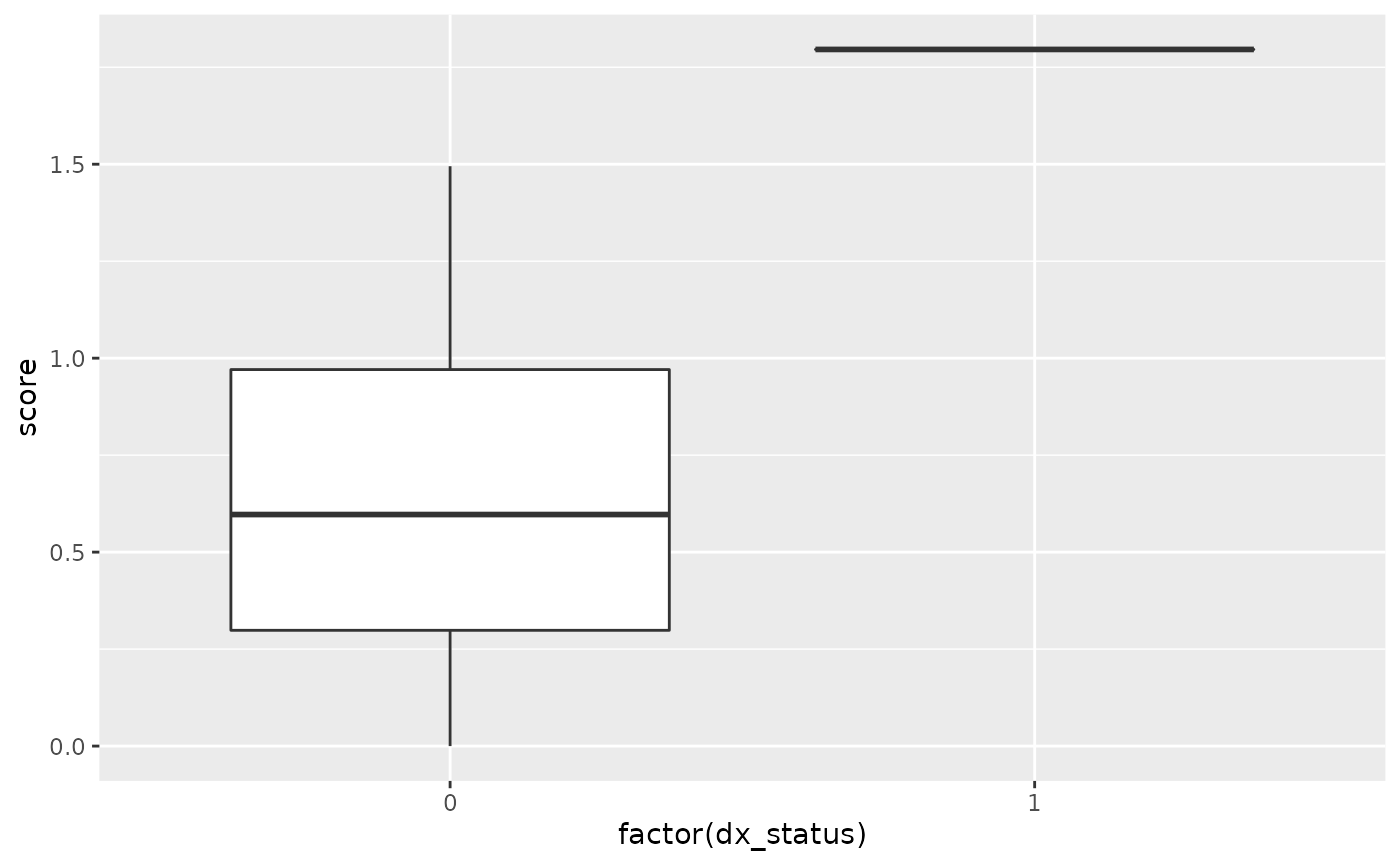
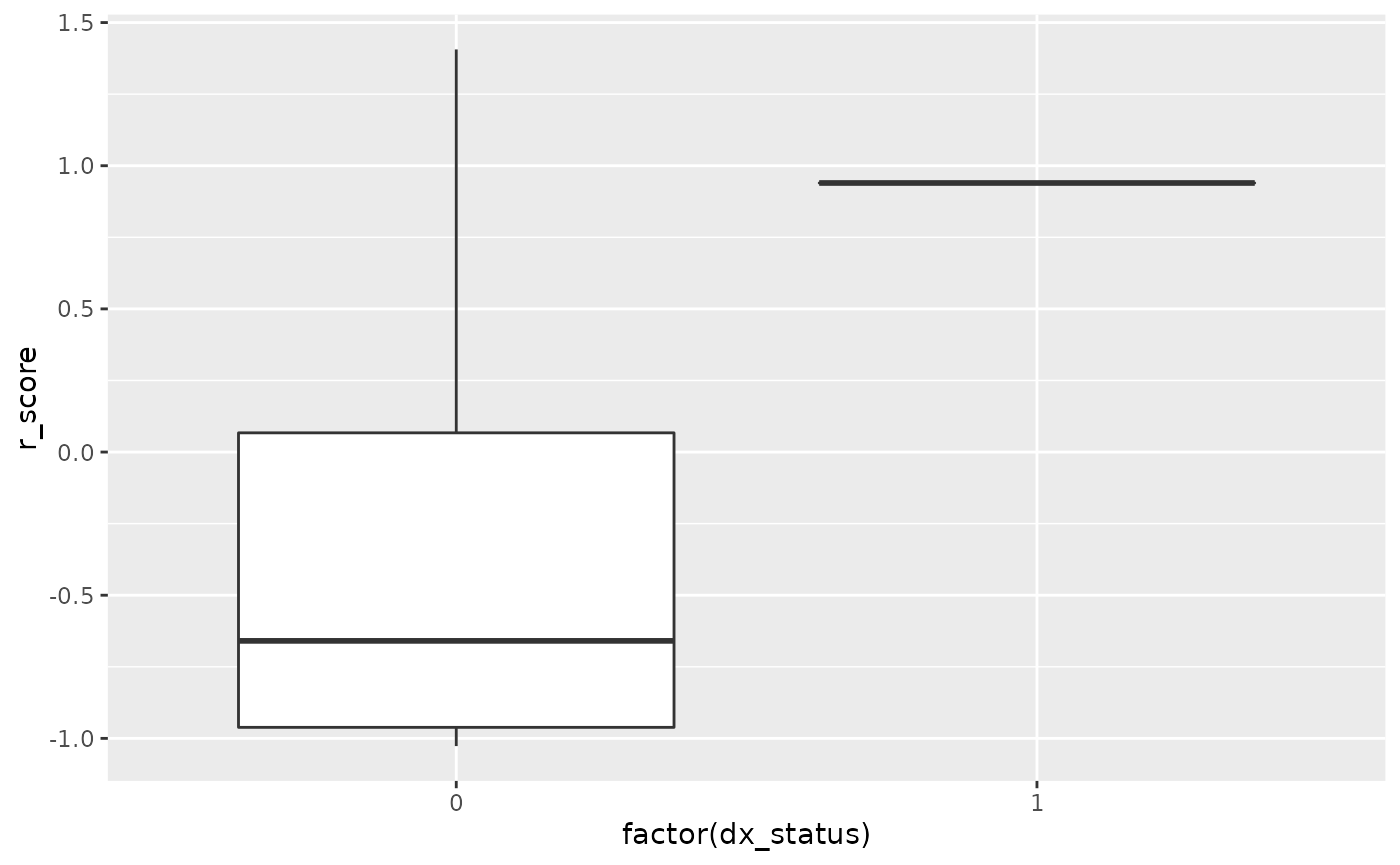
Built site for phers: 0.0.0.9000@26683aa

diff --git a/articles/generate_phers.html b/articles/generate_phers.html
@@ -126,9 +126,16 @@
 <span class="va">diseasePhecodeMap</span> <span class="op">=</span> <span class="fu"><a href="../reference/mapDiseaseToPhecode.html">mapDiseaseToPhecode</a></span><span class="op">(</span><span class="op">)</span>
 
 <span class="co"># calculate PheRS</span>
-<span class="va">scores</span> <span class="op">=</span> <span class="fu"><a href="../reference/getScores.html">getScores</a></span><span class="op">(</span><span class="va">demoSample</span>, <span class="va">phecodeOccurrences</span>, <span class="va">weights</span>, <span class="va">diseasePhecodeMap</span><span class="op">[</span><span class="va">disease_id</span> <span class="op">==</span> <span class="va">diseaseIds</span><span class="op">]</span><span class="op">)</span>
+<span class="va">scores</span> <span class="op">=</span> <span class="fu"><a href="../reference/getScores.html">getScores</a></span><span class="op">(</span>
+  <span class="va">demoSample</span>, <span class="va">phecodeOccurrences</span>, <span class="va">weights</span>, <span class="va">diseasePhecodeMap</span><span class="op">[</span><span class="va">disease_id</span> <span class="op">==</span> <span class="va">diseaseIds</span><span class="op">]</span><span class="op">)</span>
  
-<span class="va">rscores</span> <span class="op">=</span> <span class="fu"><a href="../reference/getResidualScores.html">getResidualScores</a></span><span class="op">(</span><span class="va">demoSample</span>, <span class="va">scores</span>, glmFormula <span class="op">=</span> <span class="fu"><a href="https://rdrr.io/r/stats/formula.html" class="external-link">as.formula</a></span><span class="op">(</span><span class="op">~</span> <span class="va">sex</span><span class="op">)</span><span class="op">)</span></code></pre></div>
+<span class="co"># calculate residual PheRS</span>
+<span class="va">rscores</span> <span class="op">=</span> <span class="fu"><a href="../reference/getResidualScores.html">getResidualScores</a></span><span class="op">(</span><span class="va">demoSample</span>, <span class="va">scores</span>, glmFormula <span class="op">=</span> <span class="fu"><a href="https://rdrr.io/r/stats/formula.html" class="external-link">as.formula</a></span><span class="op">(</span><span class="op">~</span> <span class="va">sex</span><span class="op">)</span><span class="op">)</span>
+
+<span class="co"># calculate PheRS using pre-calculated weights</span>
+<span class="va">pWeights</span> <span class="op">=</span> <span class="fu"><a href="../reference/getWeights.html">getWeights</a></span><span class="op">(</span><span class="va">demoSample</span>, <span class="va">phecodeOccurrences</span>, preCalcWeights <span class="op">=</span> <span class="cn">TRUE</span><span class="op">)</span>
+<span class="va">scores</span> <span class="op">=</span> <span class="fu"><a href="../reference/getScores.html">getScores</a></span><span class="op">(</span>
+  <span class="va">demoSample</span>, <span class="va">phecodeOccurrences</span>, <span class="va">pWeights</span>, <span class="va">diseasePhecodeMap</span><span class="op">[</span><span class="va">disease_id</span> <span class="op">==</span> <span class="va">diseaseIds</span><span class="op">]</span><span class="op">)</span></code></pre></div>
 <p>perform genotype association</p>
 <div class="sourceCode" id="cb4"><pre class="downlit sourceCode r">
 <code class="sourceCode R"><span class="va">demos</span> <span class="op">=</span> <span class="va">demoSample</span><span class="op">[</span>, <span class="fu">.</span><span class="op">(</span><span class="va">person_id</span>, <span class="va">sex</span><span class="op">)</span><span class="op">]</span>
@@ -144,36 +151,36 @@
 
 <span class="va">genoStats</span>
 <span class="co">#&gt;                  vid gene disease_id n_total n_wt n_het n_hom       beta</span>
-<span class="co">#&gt;   1: 15:48703179:A:G FBN1     154700       5    4     1     0 -0.3494850</span>
-<span class="co">#&gt;   2: 15:48703187:T:C FBN1     154700       5    3     2     0  1.1690743</span>
-<span class="co">#&gt;   3: 15:48703252:T:C FBN1     154700       5    4     0     1 -0.5000000</span>
-<span class="co">#&gt;   4: 15:48703260:T:G FBN1     154700       5    4     1     0  1.2958800</span>
-<span class="co">#&gt;   5: 15:48703261:T:C FBN1     154700       5    4     1     0 -0.3494850</span>
+<span class="co">#&gt;   1: 15:48703179:A:G FBN1     154700       5    4     1     0 -0.6461531</span>
+<span class="co">#&gt;   2: 15:48703187:T:C FBN1     154700       5    3     2     0  4.1360425</span>
+<span class="co">#&gt;   3: 15:48703252:T:C FBN1     154700       5    4     0     1 -1.7751742</span>
+<span class="co">#&gt;   4: 15:48703260:T:G FBN1     154700       5    4     1     0  4.5753131</span>
+<span class="co">#&gt;   5: 15:48703261:T:C FBN1     154700       5    4     1     0 -0.6461531</span>
 <span class="co">#&gt;  ---                                                                    </span>
-<span class="co">#&gt; 567: 15:48936888:C:T FBN1     154700       5    3     2     0 -0.6282771</span>
-<span class="co">#&gt; 568: 15:48936891:C:G FBN1     154700       5    4     1     0 -0.3494850</span>
-<span class="co">#&gt; 569: 15:48936892:C:T FBN1     154700       5    4     1     0 -1.0000000</span>
-<span class="co">#&gt; 570: 15:48936908:T:C FBN1     154700       5    4     1     0  1.0000000</span>
-<span class="co">#&gt; 571: 15:48936913:C:G FBN1     154700       5    4     1     0 -0.9463950</span>
-<span class="co">#&gt;             se       pval        lower     upper</span>
-<span class="co">#&gt;   1: 1.1013475 0.78106123 -2.508086352 1.8091163</span>
-<span class="co">#&gt;   2: 0.2113132 0.03115284  0.754907998 1.5832406</span>
-<span class="co">#&gt;   3: 0.5474292 0.45746874 -1.572941466 0.5729415</span>
-<span class="co">#&gt;   4: 0.6590778 0.18818153  0.004111196 2.5876488</span>
-<span class="co">#&gt;   5: 1.1013475 0.78106123 -2.508086352 1.8091163</span>
-<span class="co">#&gt;  ---                                            </span>
-<span class="co">#&gt; 567: 0.7284604 0.47932776 -2.056033281 0.7994790</span>
-<span class="co">#&gt; 568: 1.1013475 0.78106123 -2.508086352 1.8091163</span>
-<span class="co">#&gt; 569: 1.0948583 0.45746874 -3.145882933 1.1458829</span>
-<span class="co">#&gt; 570: 1.0948583 0.45746874 -1.145882933 3.1458829</span>
-<span class="co">#&gt; 571: 0.9089578 0.40712030 -2.727919630 0.8351296</span></code></pre></div>
+<span class="co">#&gt; 567: 15:48936888:C:T FBN1     154700       5    3     2     0 -1.8908082</span>
+<span class="co">#&gt; 568: 15:48936891:C:G FBN1     154700       5    4     1     0 -0.6461531</span>
+<span class="co">#&gt; 569: 15:48936892:C:T FBN1     154700       5    4     1     0 -3.5503484</span>
+<span class="co">#&gt; 570: 15:48936908:T:C FBN1     154700       5    4     1     0  3.5503484</span>
+<span class="co">#&gt; 571: 15:48936913:C:G FBN1     154700       5    4     1     0 -3.9291599</span>
+<span class="co">#&gt;            se       pval       lower     upper</span>
+<span class="co">#&gt;   1: 4.096487 0.88915293  -8.6751208  7.382815</span>
+<span class="co">#&gt;   2: 1.074769 0.06137359   2.0295343  6.242551</span>
+<span class="co">#&gt;   3: 2.021806 0.47253900  -5.7378414  2.187493</span>
+<span class="co">#&gt;   4: 2.554060 0.21510860  -0.4305518  9.581178</span>
+<span class="co">#&gt;   5: 4.096487 0.88915293  -8.6751208  7.382815</span>
+<span class="co">#&gt;  ---                                          </span>
+<span class="co">#&gt; 567: 2.814422 0.57090321  -7.4069749  3.625358</span>
+<span class="co">#&gt; 568: 4.096487 0.88915293  -8.6751208  7.382815</span>
+<span class="co">#&gt; 569: 4.043612 0.47253900 -11.4756829  4.374986</span>
+<span class="co">#&gt; 570: 4.043612 0.47253900  -4.3749862 11.475683</span>
+<span class="co">#&gt; 571: 3.044802 0.32595567  -9.8968614  2.038542</span></code></pre></div>
 <p>run positive control analysis</p>
 <div class="sourceCode" id="cb5"><pre class="downlit sourceCode r">
 <code class="sourceCode R"><span class="va">dxStatus</span> <span class="op">=</span> <span class="fu"><a href="../reference/getDxStatus.html">getDxStatus</a></span><span class="op">(</span><span class="va">demoSample</span>, <span class="va">icdSample</span><span class="op">)</span>
 
-<span class="va">plotInput</span> <span class="op">=</span> <span class="fu"><a href="https://Rdatatable.gitlab.io/data.table/reference/merge.html" class="external-link">merge</a></span><span class="op">(</span><span class="va">scores</span>, <span class="va">dxStatus</span>, by <span class="op">=</span> <span class="fu"><a href="https://rdrr.io/r/base/c.html" class="external-link">c</a></span><span class="op">(</span><span class="st">'person_id'</span>, <span class="st">'disease_id'</span><span class="op">)</span><span class="op">)</span>
+<span class="va">plotInput</span> <span class="op">=</span> <span class="fu"><a href="https://Rdatatable.gitlab.io/data.table/reference/merge.html" class="external-link">merge</a></span><span class="op">(</span><span class="va">rscores</span>, <span class="va">dxStatus</span>, by <span class="op">=</span> <span class="fu"><a href="https://rdrr.io/r/base/c.html" class="external-link">c</a></span><span class="op">(</span><span class="st">'person_id'</span>, <span class="st">'disease_id'</span><span class="op">)</span><span class="op">)</span>
 
-<span class="fu"><a href="https://ggplot2.tidyverse.org/reference/ggplot.html" class="external-link">ggplot</a></span><span class="op">(</span><span class="va">plotInput</span><span class="op">)</span> <span class="op">+</span> <span class="fu"><a href="https://ggplot2.tidyverse.org/reference/geom_boxplot.html" class="external-link">geom_boxplot</a></span><span class="op">(</span><span class="fu"><a href="https://ggplot2.tidyverse.org/reference/aes.html" class="external-link">aes</a></span><span class="op">(</span>x <span class="op">=</span> <span class="fu"><a href="https://rdrr.io/r/base/factor.html" class="external-link">factor</a></span><span class="op">(</span><span class="va">dx_status</span><span class="op">)</span>, y <span class="op">=</span> <span class="va">score</span><span class="op">)</span><span class="op">)</span></code></pre></div>
+<span class="fu"><a href="https://ggplot2.tidyverse.org/reference/ggplot.html" class="external-link">ggplot</a></span><span class="op">(</span><span class="va">plotInput</span><span class="op">)</span> <span class="op">+</span> <span class="fu"><a href="https://ggplot2.tidyverse.org/reference/geom_boxplot.html" class="external-link">geom_boxplot</a></span><span class="op">(</span><span class="fu"><a href="https://ggplot2.tidyverse.org/reference/aes.html" class="external-link">aes</a></span><span class="op">(</span>x <span class="op">=</span> <span class="fu"><a href="https://rdrr.io/r/base/factor.html" class="external-link">factor</a></span><span class="op">(</span><span class="va">dx_status</span><span class="op">)</span>, y <span class="op">=</span> <span class="va">r_score</span><span class="op">)</span><span class="op">)</span></code></pre></div>
 <p><img src="generate_phers_files/figure-html/unnamed-chunk-5-1.png" width="700"></p>
   </div>
 

diff --git a/reference/preCalcWeights.html b/reference/preCalcWeights.html
@@ -1,0 +1,106 @@
+<!DOCTYPE html>
+<!-- Generated by pkgdown: do not edit by hand --><html lang="en"><head><meta http-equiv="Content-Type" content="text/html; charset=UTF-8"><meta charset="utf-8"><meta http-equiv="X-UA-Compatible" content="IE=edge"><meta name="viewport" content="width=device-width, initial-scale=1.0"><title>pre-calculated weights — preCalcWeights • phers</title><!-- jquery --><script src="https://cdnjs.cloudflare.com/ajax/libs/jquery/3.4.1/jquery.min.js" integrity="sha256-CSXorXvZcTkaix6Yvo6HppcZGetbYMGWSFlBw8HfCJo=" crossorigin="anonymous"></script><!-- Bootstrap --><link rel="stylesheet" href="https://cdnjs.cloudflare.com/ajax/libs/twitter-bootstrap/3.4.1/css/bootstrap.min.css" integrity="sha256-bZLfwXAP04zRMK2BjiO8iu9pf4FbLqX6zitd+tIvLhE=" crossorigin="anonymous"><script src="https://cdnjs.cloudflare.com/ajax/libs/twitter-bootstrap/3.4.1/js/bootstrap.min.js" integrity="sha256-nuL8/2cJ5NDSSwnKD8VqreErSWHtnEP9E7AySL+1ev4=" crossorigin="anonymous"></script><!-- bootstrap-toc --><link rel="stylesheet" href="../bootstrap-toc.css"><script src="../bootstrap-toc.js"></script><!-- Font Awesome icons --><link rel="stylesheet" href="https://cdnjs.cloudflare.com/ajax/libs/font-awesome/5.12.1/css/all.min.css" integrity="sha256-mmgLkCYLUQbXn0B1SRqzHar6dCnv9oZFPEC1g1cwlkk=" crossorigin="anonymous"><link rel="stylesheet" href="https://cdnjs.cloudflare.com/ajax/libs/font-awesome/5.12.1/css/v4-shims.min.css" integrity="sha256-wZjR52fzng1pJHwx4aV2AO3yyTOXrcDW7jBpJtTwVxw=" crossorigin="anonymous"><!-- clipboard.js --><script src="https://cdnjs.cloudflare.com/ajax/libs/clipboard.js/2.0.6/clipboard.min.js" integrity="sha256-inc5kl9MA1hkeYUt+EC3BhlIgyp/2jDIyBLS6k3UxPI=" crossorigin="anonymous"></script><!-- headroom.js --><script src="https://cdnjs.cloudflare.com/ajax/libs/headroom/0.11.0/headroom.min.js" integrity="sha256-AsUX4SJE1+yuDu5+mAVzJbuYNPHj/WroHuZ8Ir/CkE0=" crossorigin="anonymous"></script><script src="https://cdnjs.cloudflare.com/ajax/libs/headroom/0.11.0/jQuery.headroom.min.js" integrity="sha256-ZX/yNShbjqsohH1k95liqY9Gd8uOiE1S4vZc+9KQ1K4=" crossorigin="anonymous"></script><!-- pkgdown --><link href="../pkgdown.css" rel="stylesheet"><script src="../pkgdown.js"></script><meta property="og:title" content="pre-calculated weights — preCalcWeights"><meta property="og:description" content="This table provides weights for 1868 phecodes calculated using data from
+Vanderbilt University Medical Center Synthetic Derivative (SD)"><!-- mathjax --><script src="https://cdnjs.cloudflare.com/ajax/libs/mathjax/2.7.5/MathJax.js" integrity="sha256-nvJJv9wWKEm88qvoQl9ekL2J+k/RWIsaSScxxlsrv8k=" crossorigin="anonymous"></script><script src="https://cdnjs.cloudflare.com/ajax/libs/mathjax/2.7.5/config/TeX-AMS-MML_HTMLorMML.js" integrity="sha256-84DKXVJXs0/F8OTMzX4UR909+jtl4G7SPypPavF+GfA=" crossorigin="anonymous"></script><!--[if lt IE 9]>
+<script src="https://oss.maxcdn.com/html5shiv/3.7.3/html5shiv.min.js"></script>
+<script src="https://oss.maxcdn.com/respond/1.4.2/respond.min.js"></script>
+<![endif]--></head><body data-spy="scroll" data-target="#toc">
+    
+
+    <div class="container template-reference-topic">
+      <header><div class="navbar navbar-default navbar-fixed-top" role="navigation">
+  <div class="container">
+    <div class="navbar-header">
+      <button type="button" class="navbar-toggle collapsed" data-toggle="collapse" data-target="#navbar" aria-expanded="false">
+        <span class="sr-only">Toggle navigation</span>
+        <span class="icon-bar"></span>
+        <span class="icon-bar"></span>
+        <span class="icon-bar"></span>
+      </button>
+      <span class="navbar-brand">
+        <a class="navbar-link" href="../index.html">phers</a>
+        <span class="version label label-default" data-toggle="tooltip" data-placement="bottom" title="">0.0.0.9000</span>
+      </span>
+    </div>
+
+    <div id="navbar" class="navbar-collapse collapse">
+      <ul class="nav navbar-nav"><li>
+  <a href="../reference/index.html">Reference</a>
+</li>
+<li class="dropdown">
+  <a href="#" class="dropdown-toggle" data-toggle="dropdown" role="button" data-bs-toggle="dropdown" aria-expanded="false">
+    Articles
+     
+    <span class="caret"></span>
+  </a>
+  <ul class="dropdown-menu" role="menu"><li>
+      <a href="../articles/generate_phers.html">generate_phers</a>
+    </li>
+  </ul></li>
+      </ul><ul class="nav navbar-nav navbar-right"><li>
+  <a href="https://github.com/hugheylab/phers/" class="external-link">
+    <span class="fab fa-github fa-lg"></span>
+     
+  </a>
+</li>
+      </ul></div><!--/.nav-collapse -->
+  </div><!--/.container -->
+</div><!--/.navbar -->
+
+      
+
+      </header><div class="row">
+  <div class="col-md-9 contents">
+    <div class="page-header">
+    <h1>pre-calculated weights</h1>
+    <small class="dont-index">Source: <a href="https://github.com/hugheylab/phers/blob/HEAD/R/map.R" class="external-link"><code>R/map.R</code></a></small>
+    <div class="hidden name"><code>preCalcWeights.Rd</code></div>
+    </div>
+
+    <div class="ref-description">
+    <p>This table provides weights for 1868 phecodes calculated using data from
+Vanderbilt University Medical Center Synthetic Derivative (SD)</p>
+    </div>
+
+    <div id="ref-usage">
+    <div class="sourceCode"><pre class="sourceCode r"><code><span class="va">preCalcWeights</span></code></pre></div>
+    </div>
+
+    <div id="format">
+    <h2>Format</h2>
+    <p>A data table with 1868 rows and the 3 following columns:</p><ul><li><p><code>phecode</code>: Character vector of phecodes</p></li>
+<li><p><code>prev</code>: Prevelance of each phecode within SD</p></li>
+<li><p><code>w</code>: Weight calculated for each phecode using the PheRS model</p></li>
+</ul></div>
+    <div id="source">
+    <h2>Source</h2>
+    <p>&lt;&gt;</p>
+    </div>
+    <div id="see-also">
+    <h2>See also</h2>
+    <div class="dont-index"><p><code><a href="getWeights.html">getWeights()</a></code></p></div>
+    </div>
+
+  </div>
+  <div class="col-md-3 hidden-xs hidden-sm" id="pkgdown-sidebar">
+    <nav id="toc" data-toggle="toc" class="sticky-top"><h2 data-toc-skip>Contents</h2>
+    </nav></div>
+</div>
+
+
+      <footer><div class="copyright">
+  <p></p><p>Developed by Jake Hughey, Layla Aref.</p>
+</div>
+
+<div class="pkgdown">
+  <p></p><p>Site built with <a href="https://pkgdown.r-lib.org/" class="external-link">pkgdown</a> 2.0.2.</p>
+</div>
+
+      </footer></div>
+
+  
+
+
+  
+
+  </body></html>
+

diff --git a/reference/getWeights.html b/reference/getWeights.html
@@ -60,7 +60,7 @@
     </div>
 
     <div id="ref-usage">
-    <div class="sourceCode"><pre class="sourceCode r"><code><span class="fu">getWeights</span><span class="op">(</span><span class="va">demos</span>, <span class="va">phecodeOccurrences</span><span class="op">)</span></code></pre></div>
+    <div class="sourceCode"><pre class="sourceCode r"><code><span class="fu">getWeights</span><span class="op">(</span><span class="va">demos</span>, <span class="va">phecodeOccurrences</span>, preCalcWeights <span class="op">=</span> <span class="cn">FALSE</span><span class="op">)</span></code></pre></div>
     </div>
 
     <div id="arguments">
@@ -71,6 +71,10 @@ a column <code>person_id</code>.</p></dd>
 <dt>phecodeOccurrences</dt>
 <dd><p>A data.table of occurrences of phecodes for each
 person in the cohort. Must have columns <code>person_id</code> and <code>phecode</code>.</p></dd>
+<dt>preCalcWeights</dt>
+<dd><p>Logical value indicating whether to return weights
+calculated using data from Vanderbilt University Medical Center.
+Recommended when data provided by the user has low sample size.</p></dd>
 </dl></div>
     <div id="value">
     <h2>Value</h2>

diff --git a/reference/index.html b/reference/index.html
@@ -110,6 +110,10 @@
         </td>
         <td><p>Map diseases entities to phecodes using HPO terms</p></td>
       </tr><tr><td>
+          <p><code><a href="preCalcWeights.html">preCalcWeights</a></code> </p>
+        </td>
+        <td><p>pre-calculated weights</p></td>
+      </tr><tr><td>
           <p><code><a href="runLinear.html">runLinear()</a></code> </p>
         </td>
         <td><p>Perform a single genotype association test</p></td>
